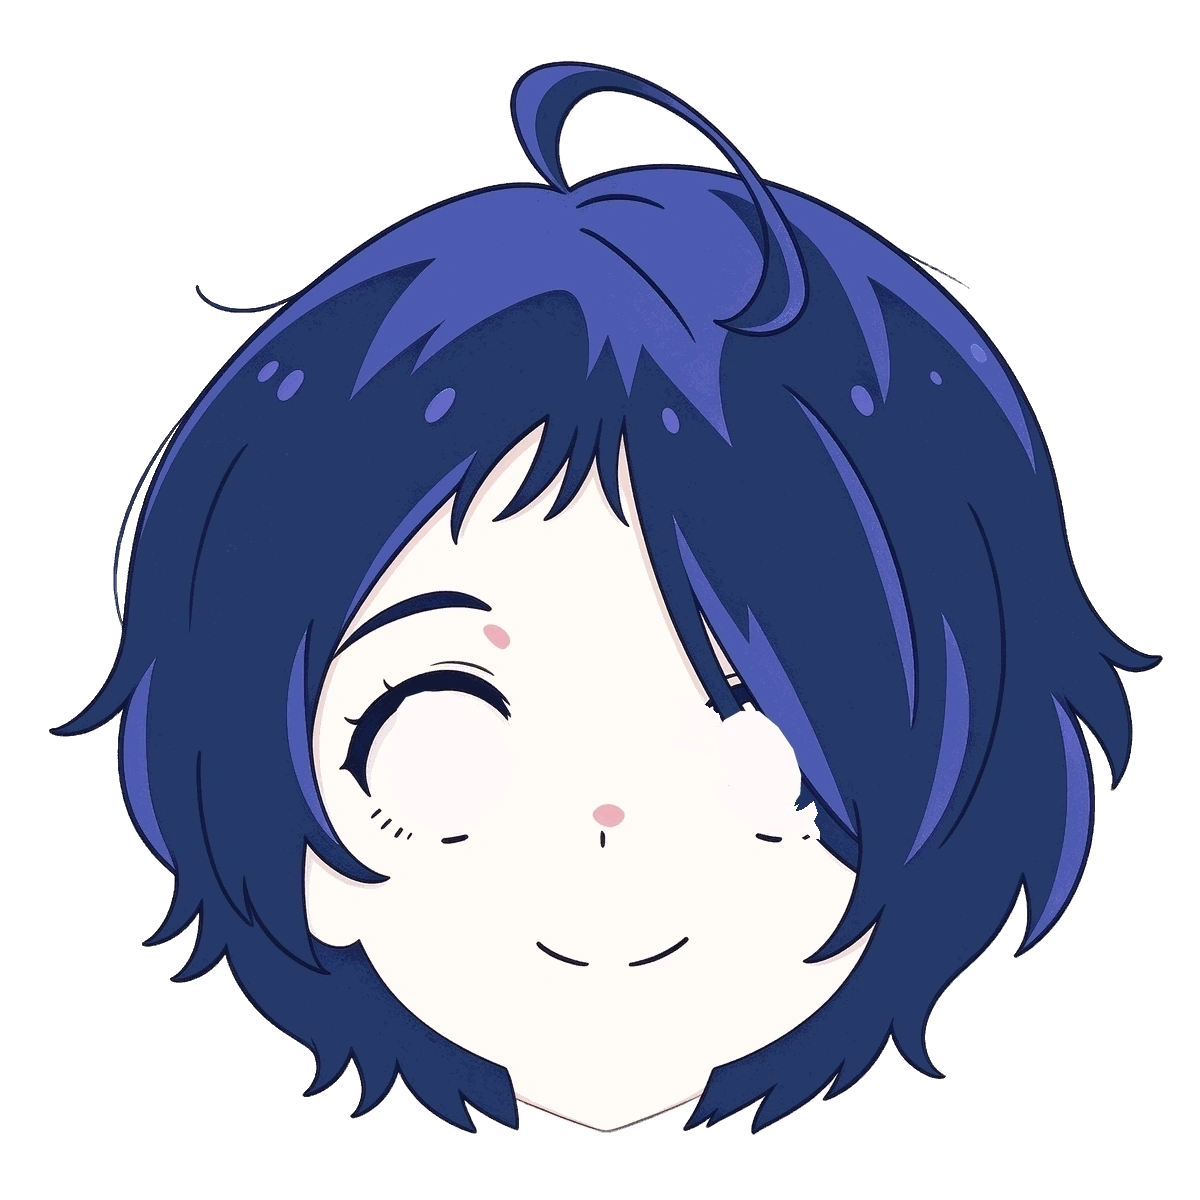
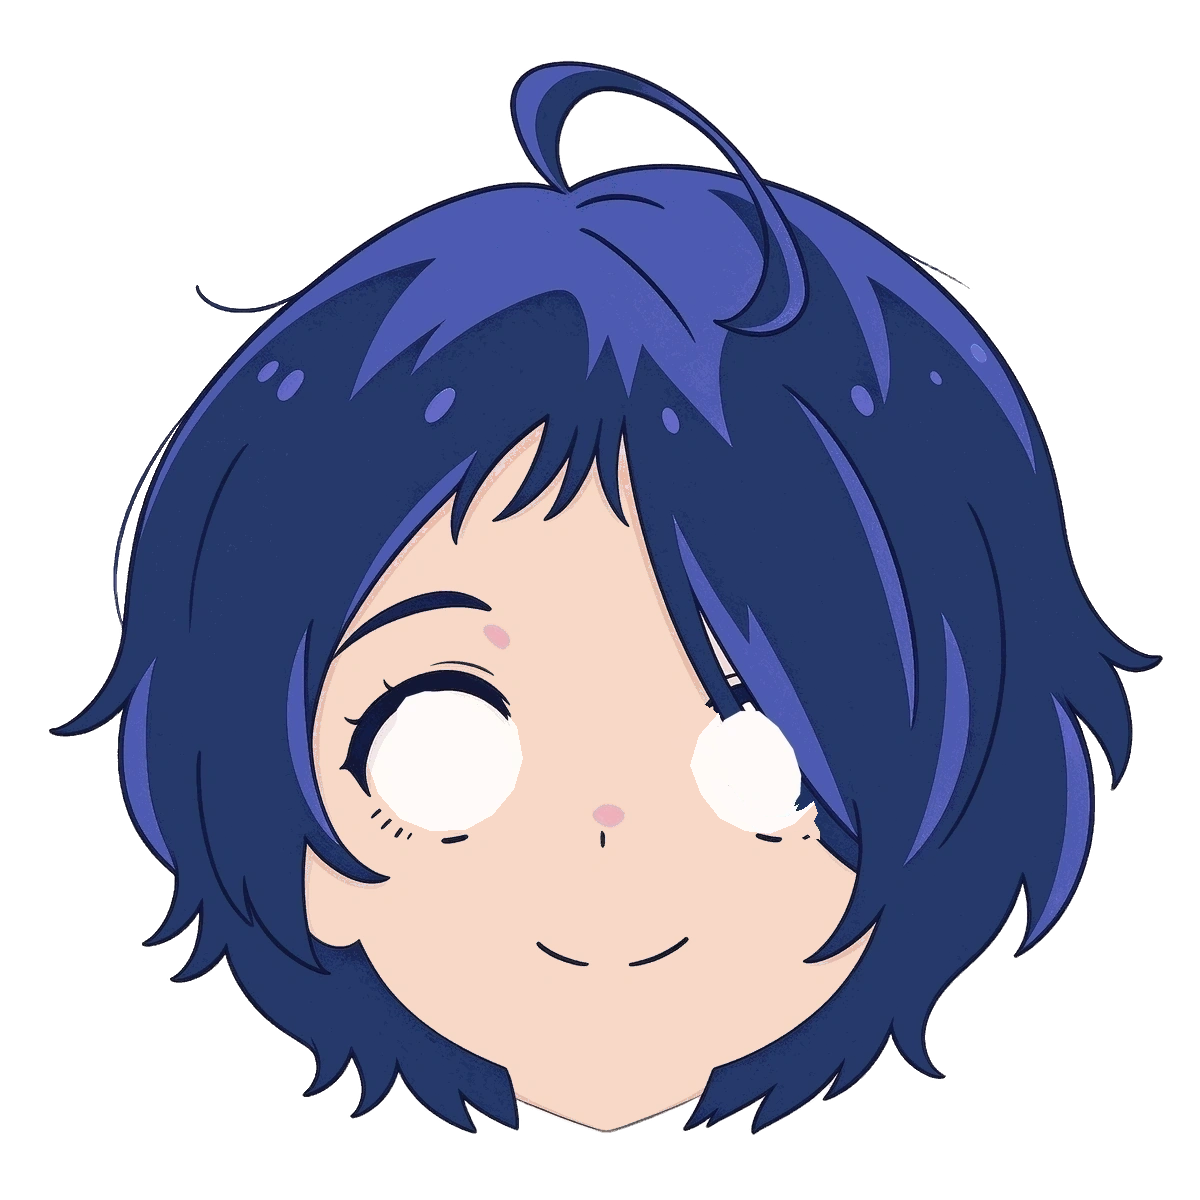
立绘更新到 v3.14：暖肤色、脸部阴影与发饰
换用新版底图和闭眼素材，闭眼时眼周不再闪白。
新增 face-shading 与 hair-clip 图层，按
底图 → 阴影 → 虹膜/闭眼 → 刘海 → 发饰的顺序合成。

Changed region(s): [[0.2467, 0.3392, 0.74, 0.9558]]

diff --git a/assets/js/hero-char.js b/assets/js/hero-char.js
@@ -1,12 +1,14 @@
 /*
  * hero-char.js — 首屏立绘动画
  *
- * v3.8 素材是预先拆好的分层图，按顺序画在同一个 1200×1200 画布上：
+ * v3.14 素材是预先拆好的分层图，按顺序画在同一个 1200×1200 画布上：
  *
- *   base-clean      底图，眼眶留空
+ *   base-clean      底图，暖肤色，眼眶留空
+ *   face-shading    脸部/下巴的 cel-shading 与刘海投影
  *   iris-gold/blue  虹膜，裁剪在眼眶路径内，随光标连续移动
- *   blink-eyes      闭眼覆盖层，只在眨眼时叠加
- *   bangs-front     遮住右眼的刘海，永远最后画
+ *   blink-eyes      闭眼覆盖层，只在眨眼时叠加（眼周已是同肤色）
+ *   bangs-front     遮住右眼的刘海
+ *   hair-clip       绿色三角形发饰，永远最后画
  *
  * 和之前的四帧切换相比，眨眼不再切换整张图：底图、头发和脸部
  * 始终保持不动，只有眼部局部变化，虹膜也是连续位移而不是换帧。
@@ -31,13 +33,15 @@
 
     var SOURCES = {
         base: BASE + "base-clean.webp",
+        faceShade: BASE + "face-shading.svg",
         gold: BASE + "iris-gold.svg",
         blue: BASE + "iris-blue.svg",
         bangs: BASE + "bangs-front.webp",
+        clip: BASE + "hair-clip.svg",
         blink: BASE + "blink-eyes.webp",
     };
 
-    var CORE = ["base", "gold", "blue", "bangs"];
+    var CORE = ["base", "faceShade", "gold", "blue", "bangs", "clip"];
     var assets = {};
     var pending = CORE.length;
     var coreLoaded = false;
@@ -86,6 +90,9 @@
 
         if (assets.base) ctx.drawImage(assets.base, 0, 0, W, H);
 
+        // 脸部阴影叠在底图之上、虹膜之下，眼白区域不受影响
+        if (assets.faceShade) ctx.drawImage(assets.faceShade, 0, 0, W, H);
+
         // 闭眼层没加载好时继续画睁眼，宁可晚一点眨，也不要空着眼眶
         if (closed && assets.blink) {
             ctx.drawImage(assets.blink, 0, 0, W, H);
@@ -108,14 +115,15 @@
             });
         }
 
-        // 刘海最后画：蓝色虹膜再往外移，也不会跑到头发前面
+        // 刘海压住虹膜，发饰再压在刘海之上
         if (assets.bangs) ctx.drawImage(assets.bangs, 0, 0, W, H);
+        if (assets.clip) ctx.drawImage(assets.clip, 0, 0, W, H);
     }
 
     /* ----------------------------------------------------------------------
        素材加载
 
-       底图、虹膜和刘海到齐就能开画；闭眼层单独加载，
+       底图、阴影、虹膜、刘海和发饰到齐就能开画；闭眼层单独加载，
        没到之前只是不眨眼，不影响正常显示。
        ---------------------------------------------------------------------- */
     function coreDone() {

diff --git a/index.html b/index.html
@@ -241,9 +241,9 @@
         <section class="hero" id="top">
             <div class="container">
                 <!-- 常驻动画：大户爱，Canvas 分层合成 + 平滑跟随。
-                     v3.8 素材把眼睛和刘海预先拆成了独立图层：
+                     v3.14 素材把眼睛、刘海、脸部阴影和发饰拆成独立图层：
                      底图眼眶留空，两枚虹膜裁剪在眼眶内随光标连续移动，
-                     闭眼只叠加眼部覆盖层，刘海永远最后画。
+                     闭眼只叠加眼部覆盖层，刘海和发饰压在最上层。
                      眨眼不再切换整张图，底图、头发和背景始终不动。 -->
                 <div class="hero__char" id="hero-char" aria-hidden="true">
                     <!-- 旧版首屏那个自转的线框二十面体，现在退到立绘背后当底衬。
